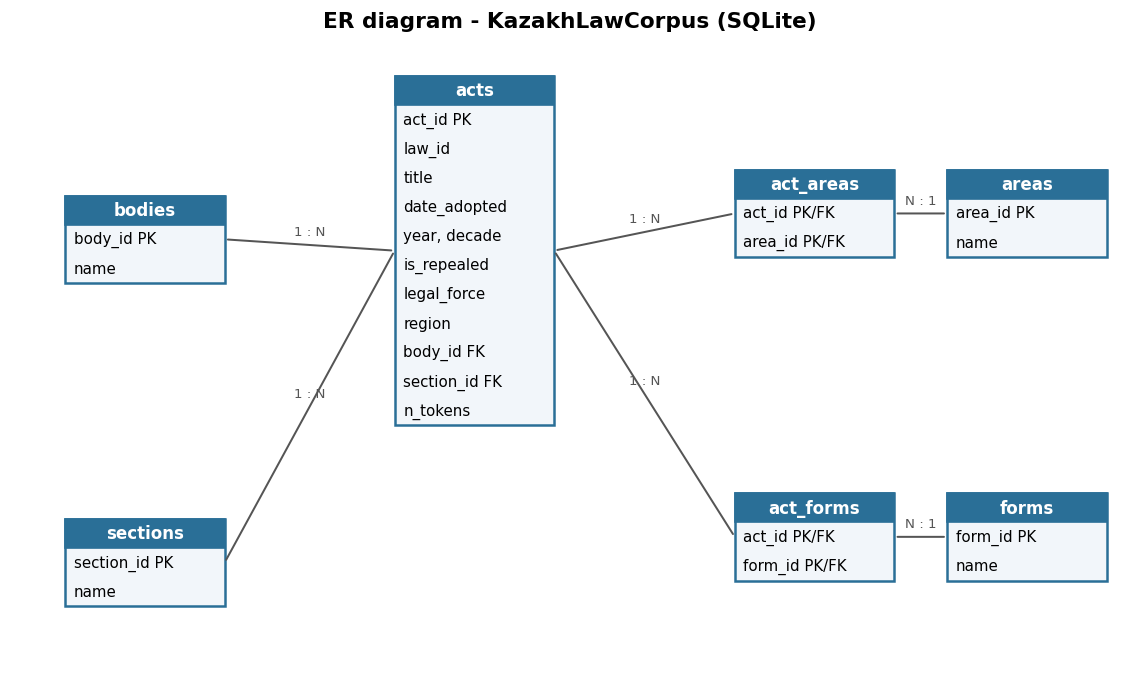
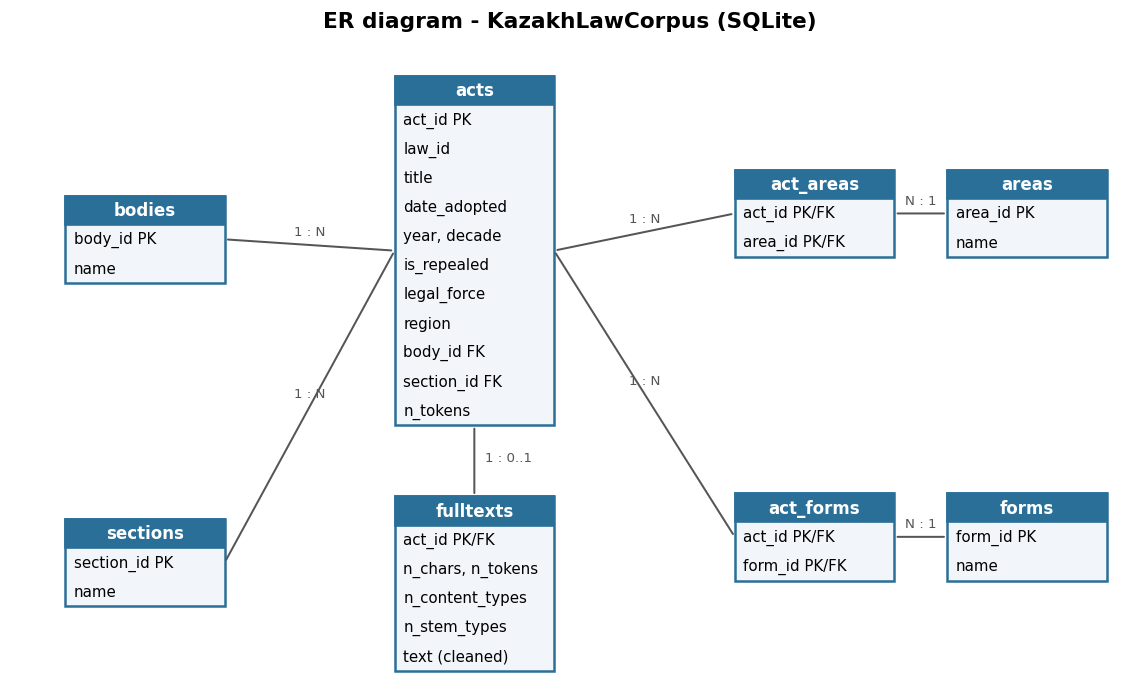
Full texts: SQL table and queries, Parquet storage, data audit
- sql/fulltext_schema.sql: fulltexts table (act_id FK to acts, lengths,
  word-form and stem type counts, cleaned text); ER diagram updated.
- sql/fulltext_queries.sql: 3 queries (CTE + HAVING, ROW_NUMBER,
  RANK), loaded into pandas and saved as sql_*.csv.
- Cleaned full texts saved as Parquet with category/int dtypes and
  compared with the .txt files on size, read time and memory.
- Audit of the sample: coverage, length, very short texts, duplicates,
  removed Russian headers, joined hyphenation, Russian passages.
- All run from menu 10 -> 2; README updated (13 queries in total).

Changed region(s): [[0.3377, 0.694, 0.4912, 0.9655], [0.3991, 0.6336, 0.4298, 0.6638]]

diff --git a/src/fulltext.py b/src/fulltext.py
@@ -13,6 +13,7 @@ Workflow:
 """
 import random
 import re
+import time
 import zlib
 from collections import Counter
 from pathlib import Path
@@ -22,7 +23,7 @@ import pandas as pd
 
 from src import config
 from src.preprocessing import STOPWORDS, remove_stopwords, stem, tokenize
-from src.utils import save_json
+from src.utils import df_memory_mb, file_size_mb, save_json
 
 PER_CELL = 3                 # acts per (decade, section) cell
 N_SECTIONS = 8               # the largest sections
@@ -303,3 +304,88 @@ def plot_case_study(table: pd.DataFrame) -> None:
     fig.tight_layout()
     fig.savefig(config.FIGURES_DIR / "20_fulltext_case_study.png", dpi=110)
     plt.close(fig)
+
+
+FULLTEXT_PARQUET_PATH = config.PROCESSED_DIR / "fulltext.parquet"
+# Frequent Russian function words; in a Kazakh act they signal untranslated Russian passages.
+RUSSIAN_MARKERS = {"и", "в", "на", "по", "с", "о", "от", "для", "не", "что", "или", "к", "из",
+                   "года", "статья", "статьи", "пункт", "является", "который", "которые"}
+
+
+def store_fulltext_parquet(fdf: pd.DataFrame) -> dict:
+    """Save the cleaned full-text corpus as Parquet with compact dtypes; compare with the .txt files.
+
+    The same memory-aware handling as the main corpus (requirement 11): category / int32 dtypes
+    instead of object / int64, and one columnar Parquet file instead of hundreds of text files.
+    """
+    paths = [config.FULLTEXT_DIR / f"{law_id}.txt" for law_id in fdf["law_id"]]
+    start = time.perf_counter()
+    for path in paths:
+        path.read_text(encoding="utf-8-sig")
+    txt_read_s = time.perf_counter() - start
+
+    plain = pd.DataFrame({
+        "law_id": fdf["law_id"].astype(str),
+        "decade": fdf["decade"].astype("int64"),
+        "section": fdf[config.TARGET_COLUMN].astype(str),
+        "n_chars": fdf["text"].str.len().astype("int64"),
+        "text": fdf["text"],
+    })
+    compact = plain.assign(decade=plain["decade"].astype("int16"),
+                           section=plain["section"].astype("category"),
+                           n_chars=plain["n_chars"].astype("int32"))
+    FULLTEXT_PARQUET_PATH.parent.mkdir(parents=True, exist_ok=True)
+    compact.to_parquet(FULLTEXT_PARQUET_PATH, index=False)
+    start = time.perf_counter()
+    pd.read_parquet(FULLTEXT_PARQUET_PATH)
+    parquet_read_s = time.perf_counter() - start
+
+    meta = plain.drop(columns="text")
+    result = {
+        "acts": len(plain),
+        "txt_files_mb": round(sum(p.stat().st_size for p in paths) / 1024 ** 2, 2),
+        "parquet_mb": file_size_mb(FULLTEXT_PARQUET_PATH),
+        "txt_read_s": round(txt_read_s, 3),
+        "parquet_read_s": round(parquet_read_s, 3),
+        "metadata_memory_mb_default_dtypes": df_memory_mb(meta),
+        "metadata_memory_mb_optimized_dtypes": df_memory_mb(compact.drop(columns="text")),
+        "total_memory_mb_optimized": df_memory_mb(compact),
+    }
+    save_json(result, config.RESULTS_DIR / "fulltext_storage.json")
+    print(f"\nFull texts: {result['txt_files_mb']} MB in {len(paths)} .txt files -> "
+          f"{result['parquet_mb']} MB Parquet; read {result['txt_read_s']} s vs {result['parquet_read_s']} s; "
+          f"metadata memory {result['metadata_memory_mb_default_dtypes']} -> "
+          f"{result['metadata_memory_mb_optimized_dtypes']} MB with category/int dtypes")
+    return result
+
+
+def audit_fulltexts(fdf: pd.DataFrame) -> dict:
+    """Data quality of the full-text sample: coverage, length, very short texts, duplicates, Russian."""
+    sample = pd.read_csv(config.FULLTEXT_SAMPLE_PATH, encoding="utf-8-sig") \
+        if config.FULLTEXT_SAMPLE_PATH.exists() else pd.DataFrame(columns=["law_id"])
+    raw = load_fulltexts()
+    tokens = fdf["text"].map(tokenize)
+    n_tokens = tokens.map(len)
+    russian_share = tokens.map(lambda t: sum(w in RUSSIAN_MARKERS for w in t) / max(1, len(t)))
+    headers_removed = sum(bool(RUSSIAN_HEADER.search(raw[law_id])) for law_id in fdf["law_id"] if law_id in raw)
+    hyphen_joins = sum(len(re.findall(r"[а-яәғқңөұүһі]-\n[а-яәғқңөұүһі]", raw[law_id], re.IGNORECASE))
+                       for law_id in fdf["law_id"] if law_id in raw)
+    report = {
+        "acts_on_list": len(sample),
+        "acts_with_text": len(fdf),
+        "coverage_pct": round(100 * len(fdf) / max(1, len(sample)), 1),
+        "texts_not_in_corpus": sorted(set(raw) - set(fdf["law_id"])),
+        "tokens": {"min": int(n_tokens.min()), "median": float(n_tokens.median()),
+                   "mean": round(float(n_tokens.mean()), 1), "max": int(n_tokens.max())},
+        "very_short_acts_lt_50_tokens": int((n_tokens < 50).sum()),
+        "duplicate_texts": int(fdf["text"].duplicated().sum()),
+        "russian_header_lines_removed": int(headers_removed),
+        "hyphenated_line_breaks_joined": int(hyphen_joins),
+        "acts_with_russian_passages_gt_2pct": int((russian_share > 0.02).sum()),
+        "acts_per_decade": {int(k): int(v) for k, v in fdf["decade"].value_counts().sort_index().items()},
+    }
+    save_json(report, config.RESULTS_DIR / "fulltext_audit.json")
+    print("\nFull-text audit:")
+    for key, value in report.items():
+        print(f"  {key:<38} {value}")
+    return report

diff --git a/src/database.py b/src/database.py
@@ -7,7 +7,7 @@ import pandas as pd
 
 from src import config
 from src.audit import split_multi_value
-from src.preprocessing import tokenize
+from src.preprocessing import remove_stopwords, stem, tokenize
 
 
 def lookup_table(values: pd.Series, id_col: str) -> pd.DataFrame:
@@ -74,6 +74,28 @@ def build_database(df: pd.DataFrame, db_path: Path = config.DB_PATH) -> dict:
     return counts
 
 
+def load_fulltexts_to_db(fdf: pd.DataFrame, db_path: Path = config.DB_PATH) -> int:
+    """Store the cleaned full texts (menu 10) in the `fulltexts` table, linked to `acts` by act_id."""
+    if not db_path.exists():
+        raise FileNotFoundError("Database not found. Run menu item 3 (Build database) first.")
+    with sqlite3.connect(db_path) as conn:
+        ids = pd.read_sql_query("SELECT act_id, law_id FROM acts", conn)
+        rows = fdf[["law_id", "text"]].merge(ids, on="law_id", how="inner")
+        content = rows["text"].map(lambda t: set(remove_stopwords(tokenize(t))))
+        table = pd.DataFrame({
+            "act_id": rows["act_id"],
+            "n_chars": rows["text"].str.len(),
+            "n_tokens": rows["text"].map(lambda t: len(tokenize(t))),
+            "n_content_types": content.map(len),
+            "n_stem_types": content.map(lambda forms: len({stem(w) for w in forms})),
+            "text": rows["text"],
+        })
+        conn.executescript((config.SQL_DIR / "fulltext_schema.sql").read_text(encoding="utf-8"))
+        table.to_sql("fulltexts", conn, if_exists="append", index=False, chunksize=500)
+    print(f"Loaded {len(table)} full texts into the fulltexts table ({db_path.name}).")
+    return len(table)
+
+
 def parse_queries(path: Path = config.SQL_DIR / "queries.sql") -> list[dict]:
     """Split queries.sql into a list of {name, description, sql}."""
     text = path.read_text(encoding="utf-8")
@@ -128,10 +150,11 @@ def summarize_findings(results: dict[str, pd.DataFrame]) -> dict:
     return findings
 
 
-def run_all_queries(db_path: Path = config.DB_PATH, save: bool = True) -> dict[str, pd.DataFrame]:
-    """Run every query in queries.sql, print a preview and save each result as CSV."""
+def run_all_queries(db_path: Path = config.DB_PATH, save: bool = True,
+                    queries_path: Path = config.SQL_DIR / "queries.sql") -> dict[str, pd.DataFrame]:
+    """Run every query in a .sql file (queries.sql by default), print a preview, save each as CSV."""
     results = {}
-    for q in parse_queries():
+    for q in parse_queries(queries_path):
         try:
             df = run_query(q["sql"], db_path)
         except sqlite3.Error as e:

diff --git a/src/visualization.py b/src/visualization.py
@@ -329,6 +329,8 @@ def draw_er_diagram(path: Path = config.DOCS_DIR / "er_diagram.png") -> Path:
         "areas": (0.88, 0.66, ["area_id PK", "name"]),
         "act_forms": (0.68, 0.16, ["act_id PK/FK", "form_id PK/FK"]),
         "forms": (0.88, 0.16, ["form_id PK", "name"]),
+        "fulltexts": (0.36, 0.02, ["act_id PK/FK", "n_chars, n_tokens", "n_content_types",
+                                   "n_stem_types", "text (cleaned)"]),
     }
     fig, ax = plt.subplots(figsize=(12, 7))
     ax.set_xlim(0, 1.05)
@@ -360,6 +362,12 @@ def draw_er_diagram(path: Path = config.DOCS_DIR / "er_diagram.png") -> Path:
     connect("act_areas", "areas", "N : 1")
     connect("acts", "act_forms", "1 : N")
     connect("act_forms", "forms", "N : 1")
+    # acts -> fulltexts runs vertically (the sample acts with a downloaded full text, menu 10)
+    ax_, ay, aw, _ = boxes["acts"]
+    fx, fy, fw, fh = boxes["fulltexts"]
+    ax.annotate("", xy=(fx + fw / 2, fy + fh), xytext=(ax_ + aw / 2, ay),
+                arrowprops=dict(arrowstyle="-", color="#555", lw=1.2))
+    ax.text(ax_ + aw / 2 + 0.01, (ay + fy + fh) / 2, "1 : 0..1", fontsize=8, color="#555")
     ax.set_title("ER diagram - KazakhLawCorpus (SQLite)", fontsize=13, weight="bold")
     path.parent.mkdir(parents=True, exist_ok=True)
     fig.savefig(path, bbox_inches="tight", dpi=120)

diff --git a/main.py b/main.py
@@ -193,6 +193,17 @@ def run_fulltext_analysis() -> None:
     from src.models import compare_methods
 
     fdf = ft.fulltext_corpus(get_corpus())
+
+    print("\n=== Data quality and storage of the full texts ===")
+    ft.audit_fulltexts(fdf)
+    ft.store_fulltext_parquet(fdf)
+
+    print("\n=== Full texts in SQLite ===")
+    from src.database import load_fulltexts_to_db, run_all_queries
+    load_fulltexts_to_db(fdf)
+    viz.draw_er_diagram()
+    run_all_queries(queries_path=config.SQL_DIR / "fulltext_queries.sql")
+
     try:
         print("\n=== Lexical profile of the full texts ===")
         viz.set_source("_full")

diff --git a/README.md b/README.md
@@ -60,7 +60,9 @@ kazakh-legal-language-lexical-profile/
 │   └── visualization.py     # Matplotlib plots, word clouds, ER diagram
 ├── sql/
 │   ├── schema.sql           # DDL: 7 tables
-│   └── queries.sql          # 10 analytical queries
+│   ├── queries.sql          # 10 analytical queries
+│   ├── fulltext_schema.sql  # DDL: fulltexts table (menu 10)
+│   └── fulltext_queries.sql # 3 queries on the full-text sample
 ├── data/
 │   ├── stopwords_kk.txt     # Kazakh stop words (plus legal boilerplate)
 │   ├── raw/                 # downloaded CSV (git-ignored)
@@ -95,7 +97,8 @@ Results go to `audit.json`, `missing_values.csv` and `02_missing_values.png`.
 bodies 1──N acts N──1 sections
               │
               ├──N act_areas N──1 areas     (many-to-many)
-              └──N act_forms N──1 forms     (many-to-many)
+              ├──N act_forms N──1 forms     (many-to-many)
+              └──0..1 fulltexts             (downloaded full text, menu 10)
 ```
 
 The ER diagram is drawn to `docs/er_diagram.png`. `sql/queries.sql` holds **10 queries**, each loaded into pandas with `pd.read_sql_query` and saved to `reports/results/sql_*.csv`:
@@ -116,6 +119,14 @@ The ER diagram is drawn to `docs/er_diagram.png`. `sql/queries.sql` holds **10 q
 The SQL results feed the analysis directly:
 - five charts are drawn from the query DataFrames (`figures/15_sql_*` to `19_sql_*`);
 - `summarize_findings()` turns them into the key facts in `sql_findings.json`, which are used in section 6.3.
+
+Menu 10 → 2 adds the `fulltexts` table (`sql/fulltext_schema.sql`, one row per downloaded act, linked to `acts` by `act_id`) and runs **3 more queries** from `sql/fulltext_queries.sql`:
+
+| Query | SQL features |
+|---|---|
+| `fulltext_length_by_section_decade` | CTE + two JOINs + GROUP BY / HAVING |
+| `longest_fulltext_per_decade` | JOIN + `ROW_NUMBER() OVER (PARTITION BY)` in a subquery |
+| `stemming_effect_by_section` | subquery + `RANK()` window |
 
 ### 3.4 Kazakh text preprocessing (`preprocessing.py`)
 Kazakh is agglutinative: заң (law) → заңдар → заңдарының → заңдарынан. Three representations are compared:
@@ -163,6 +174,8 @@ The corpus has no full act texts. adilet.zan.kz has no bulk download, and its ro
 - Before analysis each text is cleaned: the Russian header line ("Закон от …") and dash rulers are removed, and words hyphenated across a line break are joined.
 
 Menu 10 → 2 repeats every analysis on the full texts and compares the two sources on exactly the same acts:
+- **Data quality and storage**: an audit of the sample (coverage, length, very short texts, duplicates, Russian passages; `fulltext_audit.json`), and the cleaned corpus saved as Parquet with compact dtypes, compared with the `.txt` files on size, read time and memory (`fulltext_storage.json`).
+- **SQL**: the full texts are loaded into the `fulltexts` table and queried (section 3.3).
 - **Lexical profile** (as menu 5–6): vocabulary by representation, Zipf and Heaps fits, top words and n-grams, decade shifts, word clouds. Outputs carry the suffix `_full`.
 - **Source comparison** (`fulltext_vs_title.csv`, figure 21): vocabulary size, stemming reduction, Zipf exponent and Heaps β for title + description vs full text; the full texts are also cut to the titles' token count, because vocabulary grows with corpus size.
 - **Models** (as menu 7 and 9): the same four models and the same leakage-free temporal split, trained once on the full texts and once on the title + description of the same acts (`fulltext_vs_title_models.csv`, figure 22), plus error analysis of the full-text model.
@@ -263,9 +276,9 @@ Run the steps in order the first time. Completed steps are marked `[done]` (stor
 | 6 | `try / except` | missing files, broken JSON, invalid menu input, SQL errors, missing stop-word file |
 | 7 | UI | interactive console menu (`main.py`) |
 | 8 | Modularity | `src/` package; `os`, `pathlib`, `datetime`, `json`, `time`, `re`, `sqlite3`, `argparse` |
-| 9 | Approach comparison | 2 baselines vs stems vs char n-grams (quality, time, memory); CSV vs Parquet |
-| 10 | DB and SQL | SQLite, 7 tables, ER diagram, 10 queries with JOIN, HAVING, subqueries, CTEs and windows |
-| 11 | Data volume | 337 MB / 216k rows, chunksize, dtype optimization, Parquet |
+| 9 | Approach comparison | 2 baselines vs stems vs char n-grams (quality, time, memory); CSV vs Parquet; title + description vs full text on the same acts |
+| 10 | DB and SQL | SQLite, 7 tables + `fulltexts`, ER diagram, 13 queries with JOIN, HAVING, subqueries, CTEs and windows |
+| 11 | Data volume | 337 MB / 216k rows, chunksize, dtype optimization, Parquet; full texts: 24 MB of .txt → 7.8 MB Parquet |
 
 ---
 
